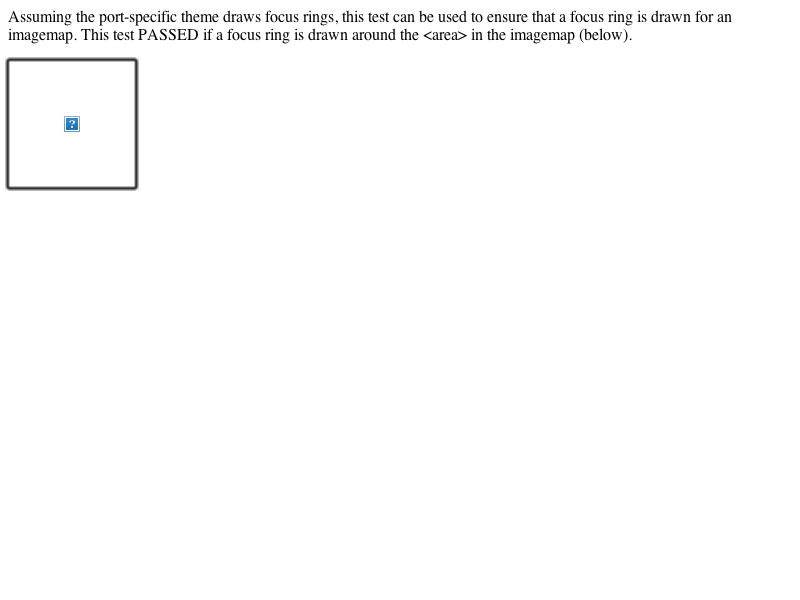
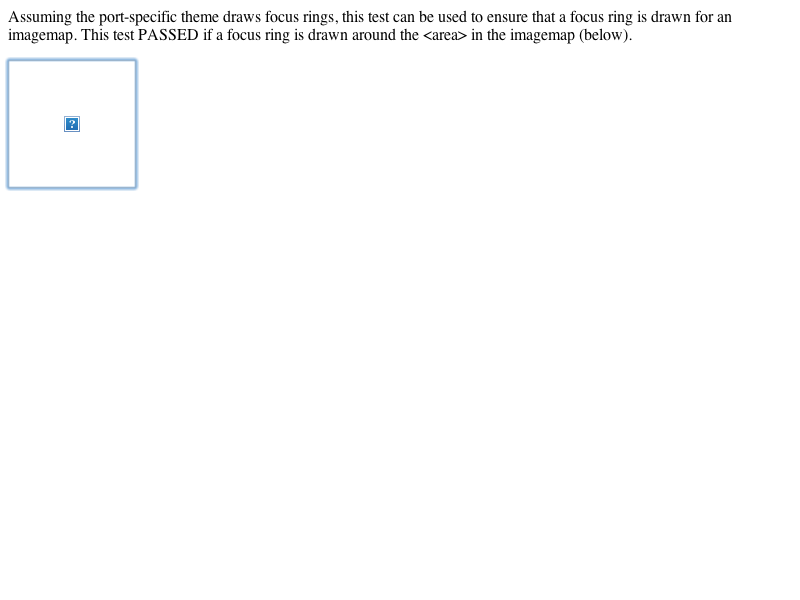
2010-11-30  Daniel Bates  <dbates@rim.com>
Reviewed by David Hyatt.

        Focused <area> should use CSS properties of <area> instead of associated <img>
        https://bugs.webkit.org/show_bug.cgi?id=49888

        Fixes an issue where the CSS properties of an <area> were not used when
        the <area> was focused.

        Currently, when focusing an <area> (say by pressing option + tab in Mac
        Safari) we use the CSS style information for the <img> associated with
        the <area>. Instead, we should use the CSS style information for the
        focused <area>. In particular, this will make the us honor the outline-
        color property of a focused <area> when drawing its focus ring.

        Tests: fast/images/imagemap-focus-ring-outline-color-explicitly-inherited-from-map.html
               fast/images/imagemap-focus-ring-outline-color-not-inherited-from-map.html
               fast/images/imagemap-focus-ring-outline-color.html

        * rendering/RenderImage.cpp:
        (WebCore::RenderImage::paintFocusRing): Use the style information of
        the focused <area> when drawing the focus ring for it.
2010-11-30  Daniel Bates  <dbates@rim.com>

        Reviewed by David Hyatt.

        Focused <area> should use CSS properties of <area> instead of associated <img>
        https://bugs.webkit.org/show_bug.cgi?id=49888

        Updated the test result for test fast/images/imagemap-focus-ring.html. Added
        test to verify that the color of the focus ring for a focused <area> is
[…]

Changed region(s): [[0.0, 0.09, 0.1875, 0.33]]

diff --git a/fast/images/imagemap-focus-ring-outline-color-not-inherited-from-map.html b/fast/images/imagemap-focus-ring-outline-color-not-inherited-from-map.html
@@ -1,0 +1,21 @@
+<html>
+<head>
+<style>
+map { outline-color: red; }
+</style>
+<script>
+window.onload = function()
+{
+    document.getElementById("area").focus();
+}
+</script>
+</head>
+<body>
+<p>Assuming the port-specific theme draws focus rings, this test can be used to ensure that the focus ring color is not inherited for an &lt;area&gt; (by default) as per <a href="http://www.w3.org/TR/CSS2/ui.html#dynamic-outlines">section 18.4 "Dynamic outlines: the 'outline' property" of the CSS2.1 spec</a>. This test FAILED if a red-colored focus ring is drawn around the &lt;area&gt; in the imagemap (below).</p>
+<map name="imagemap">
+    <area id="area" shape="rect" coords="0,0,128,128" href="#dummy"/>
+</map>
+<img src="imagemap.jpg" width="128" height="128" usemap="#imagemap" />
+</body>
+</head>
+</html>

diff --git a/fast/images/imagemap-focus-ring-outline-color-explicitly-inherited-from-map.html b/fast/images/imagemap-focus-ring-outline-color-explicitly-inherited-from-map.html
@@ -1,0 +1,22 @@
+<html>
+<head>
+<style>
+map { outline-color: green; }
+area:focus { outline-color: inherit; }
+</style>
+<script>
+window.onload = function()
+{
+    document.getElementById("area").focus();
+}
+</script>
+</head>
+<body>
+<p>Assuming the port-specific theme draws focus rings, this test can be used to ensure that the focus ring color for an &lt;area&gt; can be explicitly inherited from &lt;map&gt;. This test PASSED if a green-colored focus ring is drawn around the &lt;area&gt; in the imagemap (below).</p>
+<map name="imagemap">
+    <area id="area" shape="rect" coords="0,0,128,128" href="#dummy"/>
+</map>
+<img src="imagemap.jpg" width="128" height="128" usemap="#imagemap" />
+</body>
+</head>
+</html>

diff --git a/fast/images/imagemap-focus-ring-outline-color.html b/fast/images/imagemap-focus-ring-outline-color.html
@@ -1,0 +1,21 @@
+<html>
+<head>
+<style>
+area:focus { outline-color: green; }
+</style>
+<script>
+window.onload = function()
+{
+    document.getElementById("area").focus();
+}
+</script>
+</head>
+<body>
+<p>Assuming the port-specific theme draws focus rings, this test can be used to ensure that a focus ring is drawn for an &lt;area&gt;. This test PASSED if a green-colored focus ring is drawn around the &lt;area&gt; in the imagemap (below).</p>
+<map name="imagemap">
+    <area id="area" shape="rect" coords="0,0,128,128" href="#dummy"/>
+</map>
+<img src="imagemap.jpg" width="128" height="128" usemap="#imagemap" />
+</body>
+</head>
+</html>
